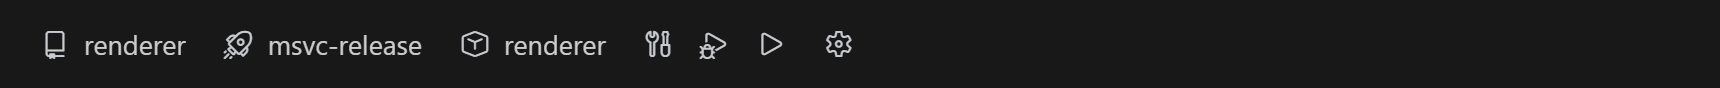
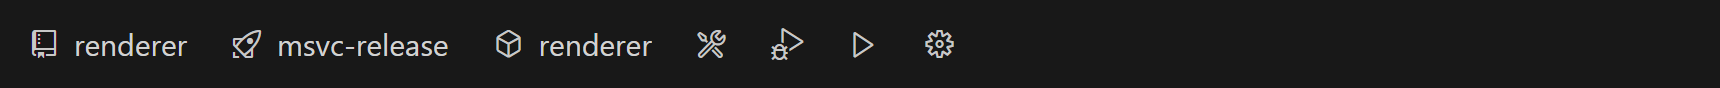
docs(release): v0.8.0 — readiness gates, Project cards, refreshed screenshots
Bump to 0.8.0. CHANGELOG entry for the run-group readiness gates and the
tidied Run Groups / Project tabs. Regenerated the README status-bar
screenshots for the full six-language line-up: hero now reads "six toolchains"
with all six rows, added Go and Node.js/TypeScript strips, and the Rust triple
uses a clean pc-windows-msvc (no "unknown" vendor). Fixed the install command
version. test_case TC-24 + verification EV-017/018.

Changed region(s): [[0.0, 0.3409, 0.5547, 0.6818]]

diff --git a/README.md b/README.md
@@ -46,8 +46,9 @@ paths from real build output, so **your `Cargo.toml`, `.csproj`, `CMakeLists.txt
   the fix; a warning chip lights up when something critical is missing.
 - **Run groups.** Start several projects together in dependency order — e.g. `auth → api →
   web` — from one click. Each member runs in a **stage**; same stage starts in parallel, a
-  higher stage waits until the previous stage's processes have launched. Stop them all with
-  one command.
+  higher stage waits until the previous stage is **ready**. "Ready" is the process launching by
+  default, or — per member — a **port opening** or an **HTTP health check** passing (with a
+  timeout). Stop them all with one command.
 - **Profiles export / import.** Share your chip selections and per-config overlays as a
   portable `devswitcher.profile.json`.
 - **New Project wizard.** `DevSwitcher: New Project…` scaffolds a starter project in any
@@ -93,9 +94,11 @@ you use.
 
 **Go** — project · package (the module's `main` package to build, run, or debug)
 
-<br>
+![Go status bar](images/status-bar-go.png)
 
 **Node.js / TypeScript** — project · script (the npm script to run/debug) · package manager (npm/pnpm/yarn, auto-detected)
+
+![Node.js / TypeScript status bar](images/status-bar-node.png)
 
 </details>
 
@@ -114,7 +117,7 @@ Run **`DevSwitcher: Doctor`** at any time to see what's detected and what's miss
 This extension is distributed as a `.vsix`:
 
 ```bash
-code --install-extension devswitcher-tools-0.6.0.vsix
+code --install-extension devswitcher-tools-0.8.0.vsix
 ```
 
 Or in VS Code: **Extensions** view → `⋯` menu → **Install from VSIX…** → pick the file.
@@ -188,16 +191,26 @@ canonical build files stay untouched (profiles are read-only here by design).
 
 ### Run groups
 
-Open the settings page → **Run Groups** tab to define a group: name it, check the projects to
-include, and give each a **Stage** number. Members with the same stage start together; a higher
-stage waits until every lower stage's process has launched — so `auth (1) → api (2) → web (3)`
-starts each service in order, while two members sharing a stage run in parallel.
+Open the settings page → **Run Groups** tab to define a group: name it, then **add projects**
+from the dropdown. Each member is a card with a **Stage** number and a **Ready when** gate.
+Members with the same stage start together; a higher stage waits until every lower stage is
+ready — so `auth (1) → api (2) → web (3)` starts each service in order, while two members
+sharing a stage run in parallel.
+
+**Ready when** decides what counts as "ready" for a member's dependents:
+
+- **process start** (default) — ready as soon as the member's process launches (fast, no setup).
+- **port open** — ready once a TCP connection to `localhost:<port>` succeeds.
+- **HTTP status** — ready once `GET <url>` returns the expected status (default `200`).
+
+Port/HTTP gates poll until they pass or the member's **timeout** elapses; a member that never
+becomes ready aborts the group start and tears the started members back down. A long readiness
+wait can be **cancelled** from the progress notification.
 
 Run or stop a group from the group's **Run**/**Stop** button, the status-bar `$(run-all)`
 launcher, or **`DevSwitcher: Run Groups…`** (which also offers **Stop all**). A member that is
 already running — individually or in another group — is treated as ready and skipped, so the
-rest of the group still starts. Readiness in this release means the member's process has
-launched; port/health-check readiness is planned.
+rest of the group still starts.
 
 ## Extension settings
 

diff --git a/.cowork/05_verification/test_case.md b/.cowork/05_verification/test_case.md
@@ -60,10 +60,11 @@
 | TC-21 | Go 모듈(`go.mod`) → 스위처 등장·**target 칩**(main 패키지 자동선택)·`go build`/`go run`·**delve 디버그**(중단점)·Doctor(go/golang.go) (MS-015, v0.5.0) | Manual | ✅ Pass | 세션 #012 F5 — Doctor 슬라이스(go 미설치 시 ❌+E1) → 설치 후 build/run + delve 중단점 정지(`dlv.exe` 자동설치) |
 | TC-22 | Node 프로젝트(`package.json`) → 스위처 등장·**script 칩**(npm scripts)·**packageManager 칩**(lockfile 자동감지)·`<pm> run <script>`/`<pm> run build`(배열형 ShellExecution, `$tsc` 매처)·**js-debug 디버그**(중단점, 확장 불요)·Doctor(node) (MS-016, v0.6.0) | Manual | ✅ Pass | 세션 #013 F5 — `.vscode-test` 제외로 감지 정리·2칩·`npm run start` 출력·js-debug **중단점 정지**(index.js:2, 확장 프롬프트 없음). 실 node 24 셸 스모크(start·runArgs `--`·build·NODE_OPTIONS) |
 | TC-23 | 키보드 단축키 — 활성 프로젝트에서 `Ctrl+Alt+B/R/S/D/P/G/,` → Build/Run/**Stop**/Debug/Switch/**Groups**/Settings 동작(프로젝트 없으면 무동작, `when:hasProjects`). **Stop**=실행 중 태스크+**디버그 세션** 종료. **상태바 Stop 버튼**(실행 중일 때만 노출·종료 시 사라짐). 설정 General 탭 "Keyboard shortcuts" 목록 + "Open Keyboard Shortcuts" 딥링크(확장 필터) + 행별 Edit… (MS-017, v0.7.0) | Manual | ✅ Pass | 세션 #013 F5 — B/R/D/P/, 발동·General 탭·딥링크·**Stop(run+디버그세션)**·**상태바 Stop 버튼 토글**(잔존 버그 fix 후 정상 사라짐)·Groups(Ctrl+Alt+G) 전부 확인 |
+| TC-24 | Run Group **준비 감지** — Run Groups 탭 멤버 카드 **Ready when**(process/port/HTTP)·port/url/status/timeout 편집. 포트 게이트: 종속 멤버가 상위 멤버의 **포트 open까지 대기** 후 시작. **타임아웃**→그룹 abort+teardown(실패 멤버명 표기). **취소** 버튼→teardown. 기존(process start) 무변경. **멤버 카드 UI**(Stage 정렬·Add 드롭다운·Remove)·그룹 멤버 **기본값 자동 시드**(Script→start) (MS-018, v0.8.0) | Manual | ✅ Pass | 세션 #014 F5 — `svc-a`(부팅 ~4s→포트 7801) → `svc-b`(Stage 2)가 **4초 뒤 시작** 확인(게이트 작동). seedMemberDefaults로 Script 미선택 차단 해소. UI 재설계(멤버 카드·Add 드롭다운) Human 승인("깔끔해") |
 
 > TC-15~17은 v1 scope A로 스위처엔 미등장(생성만) — 정상. 이름 검증·템플릿·**Run Group 계획/검증/스테이지·시퀀서**·Node(`parseScripts`·`assembleNodeArgs`·`buildNodeDebugConfig`)는 단위 테스트(mocha **231**) 커버. Run Group 준비 감지(포트/헬스체크)는 후속 마이너.
 
-**요약**: Auto 3/3 Pass · Manual **19 Pass** · 2 Partial(TC-06·TC-10) · 1 Deferred(TC-11 WSL). 세션 #012 추가: TC-21(Go) Pass. 세션 #013 추가: TC-22(Node 감지·2칩·run/build·js-debug 중단점·Doctor) Pass.
+**요약**: Auto 3/3 Pass · Manual **21 Pass** · 2 Partial(TC-06·TC-10) · 1 Deferred(TC-11 WSL). 세션 #012 추가: TC-21(Go) Pass. 세션 #013 추가: TC-22(Node)·TC-23(단축키) Pass. 세션 #014 추가: TC-24(Run Group 준비 감지·포트 게이트·UI 재설계) Pass.
 세션 #011 추가: TC-18~20(Run Group 정의·계층 기동·skip·상태바 통합 메뉴) Pass. 그 과정에서 설정 페이지 공백 버그(webview 스크립트 아포스트로피, 세션 #010 유입) 발견·수정 + 회귀 가드 단위 테스트 추가. TC-11(WSL/F18)은 WSL 내부 재클론 후 별도 진행.
 
 ---

diff --git a/.cowork/05_verification/verification_evidence.md b/.cowork/05_verification/verification_evidence.md
@@ -68,6 +68,8 @@
 | EV-014 | Packaging/Release | **v0.6.0** `devswitcher-tools-0.6.0.vsix`(13파일 239.61KB, prod 113.1kb) + 격리 프로필 설치 스모크(`lim8603.devswitcher-tools@0.6.0` 인식) + 통합 3 passing(활성화·15 커맨드). **main FF 병합(`55ea62a`)·`v0.6.0` 태그·origin push·브랜치 삭제 완료** | Pass | Gate 5 | `npx @vscode/vsce package`, `code --install-extension`(격리 dir), `npm run test:integration`, `git push origin main/v0.6.0` | 2026-08-17 | TASK-048. Node/TS(MS-016) 번들 |
 | EV-015 | E2E(Manual) + Unit | **키보드 단축키(MS-017, v0.7.0)** — TC-23: 정적 `contributes.keybindings`(Build/Run/**Stop**/Debug/Switch/**Groups**/Settings = Ctrl+Alt+B/R/S/D/P/G/,·`when:hasProjects`)·orchestrator setContext·**`devSwitcher.stop`**(태스크+**디버그세션** 종료·user-stop 실패토스트 억제)·**상태바 Stop 버튼**(실행 중일 때만·세션 Map 추적)·General 탭 목록+딥링크(`openGlobalKeybindings` 확장 필터)+행별 Edit. `buildShortcutList` 순수 단위 커버 | Pass | Gate 4 | 세션 #013 F5 전부 통과(단축키·General 탭·딥링크·stop[run+디버그]·상태바 버튼 토글) + `shortcuts.test.ts`(4)·`settingsHtml.test.ts` + 통합 16커맨드 | 2026-08-17 | TASK-049·050. ADR-017 |
 | EV-016 | Packaging/Release | **v0.7.0** `devswitcher-tools-0.7.0.vsix`(13파일 241.55KB, prod 116.56kb) + 격리 프로필 설치 스모크(`lim8603.devswitcher-tools@0.7.0` 인식) + 통합 3 passing(활성화·**16 커맨드**) | Pass | Gate 5 | `npx @vscode/vsce package`, `code --install-extension`(격리 dir), `npm run test:integration` | 2026-08-17 | TASK-050. 키보드 단축키(MS-017) 번들. main 병합·태그·push |
+| EV-017 | E2E(Manual) + Unit | **Run Group 준비 감지(MS-018, v0.8.0)** — TC-24: 멤버별 **Ready when**(process/port/HTTP)·포트 게이트로 종속 대기·타임아웃 abort+teardown(실패 멤버명)·취소 버튼·기존 무변경. 순수 `pollUntilReady`/`readinessProblems`/`withMemberReadiness`·sequencer 취소·probe(net/http) 단위 커버. UI 재설계(멤버 카드·Add 드롭다운)·seedMemberDefaults | Pass | Gate 4 | 세션 #014 F5 — svc-a(부팅~4s→7801)→svc-b **4초 뒤 시작**(게이트 작동) + 픽스처 스모크(7801 ~4071ms 개방) + `readiness.test.ts`·`groupSequencer.test.ts`(취소)·`runGroupPlan.test.ts` | 2026-08-17 | TASK-051·052·053. **ADR-018** |
+| EV-018 | Packaging/Release | **v0.8.0** `devswitcher-tools-0.8.0.vsix`(15파일 273.43KB, prod 130.0kb) + 격리 프로필 설치 스모크(`lim8603.devswitcher-tools@0.8.0` 인식) + **README 스크린샷 재생성**(6개 언어 히어로 "SIX toolchains"·Go/Node 개별 이미지 신규·Rust 트리플 `pc-windows-msvc`, codicon 폰트 Edge 헤드리스 2x) | Pass | Gate 5 | `npx @vscode/vsce package`, `code --install-extension`(격리 dir) | 2026-08-17 | TASK-053. Run Group 준비 감지(MS-018) 번들. **v1.0.0 로드맵 마지막 기능** |
 
 ---
 

diff --git a/CHANGELOG.md b/CHANGELOG.md
@@ -3,6 +3,34 @@
 All notable changes to DevSwitcher Tools are documented here.
 The format is based on [Keep a Changelog](https://keepachangelog.com/).
 
+## [0.8.0] - 2026-08-17
+
+### Added
+
+- **Run-group readiness gates** — each run-group member can now declare when it counts as
+  "ready" for its dependents, in the **Run Groups** tab's per-member **Ready when** control:
+  - **process start** (default, unchanged) — ready as soon as the process launches.
+  - **port open** — ready once a TCP connection to `localhost:<port>` succeeds.
+  - **HTTP status** — ready once `GET <url>` returns the expected status (default `200`).
+
+  Gates poll until they pass or the member's **timeout** elapses. A member that never becomes
+  ready aborts the group start and tears the already-started members back down, and a long
+  readiness wait can be **cancelled** from the progress notification. Members without a gate
+  keep the previous process-launch behaviour, so existing groups are unaffected.
+
+### Changed
+
+- **Run Groups tab, tidied up** — members are now shown as cards (ordered by stage) with their
+  stage, readiness gate, and a **Remove** button; projects are added from an **Add a project**
+  dropdown instead of a full checkbox list. Group members also seed their default chip values
+  on run (e.g. the Node **Script** → `start`), so a member that was never the active project
+  no longer has to be configured by hand first.
+- **Project tab, richer** — the settings page's **Project** tab now shows each detected project
+  as a card with its adapter, manifest path, toolchain status (✅/❌ from Doctor), active
+  profile, and a per-chip summary with option counts. Click a card to switch to that project.
+- **Docs** — refreshed the README status-bar screenshots for the full six-language line-up
+  (added Go and Node.js/TypeScript, updated the hero image).
+
 ## [0.7.0] - 2026-08-17
 
 ### Added
